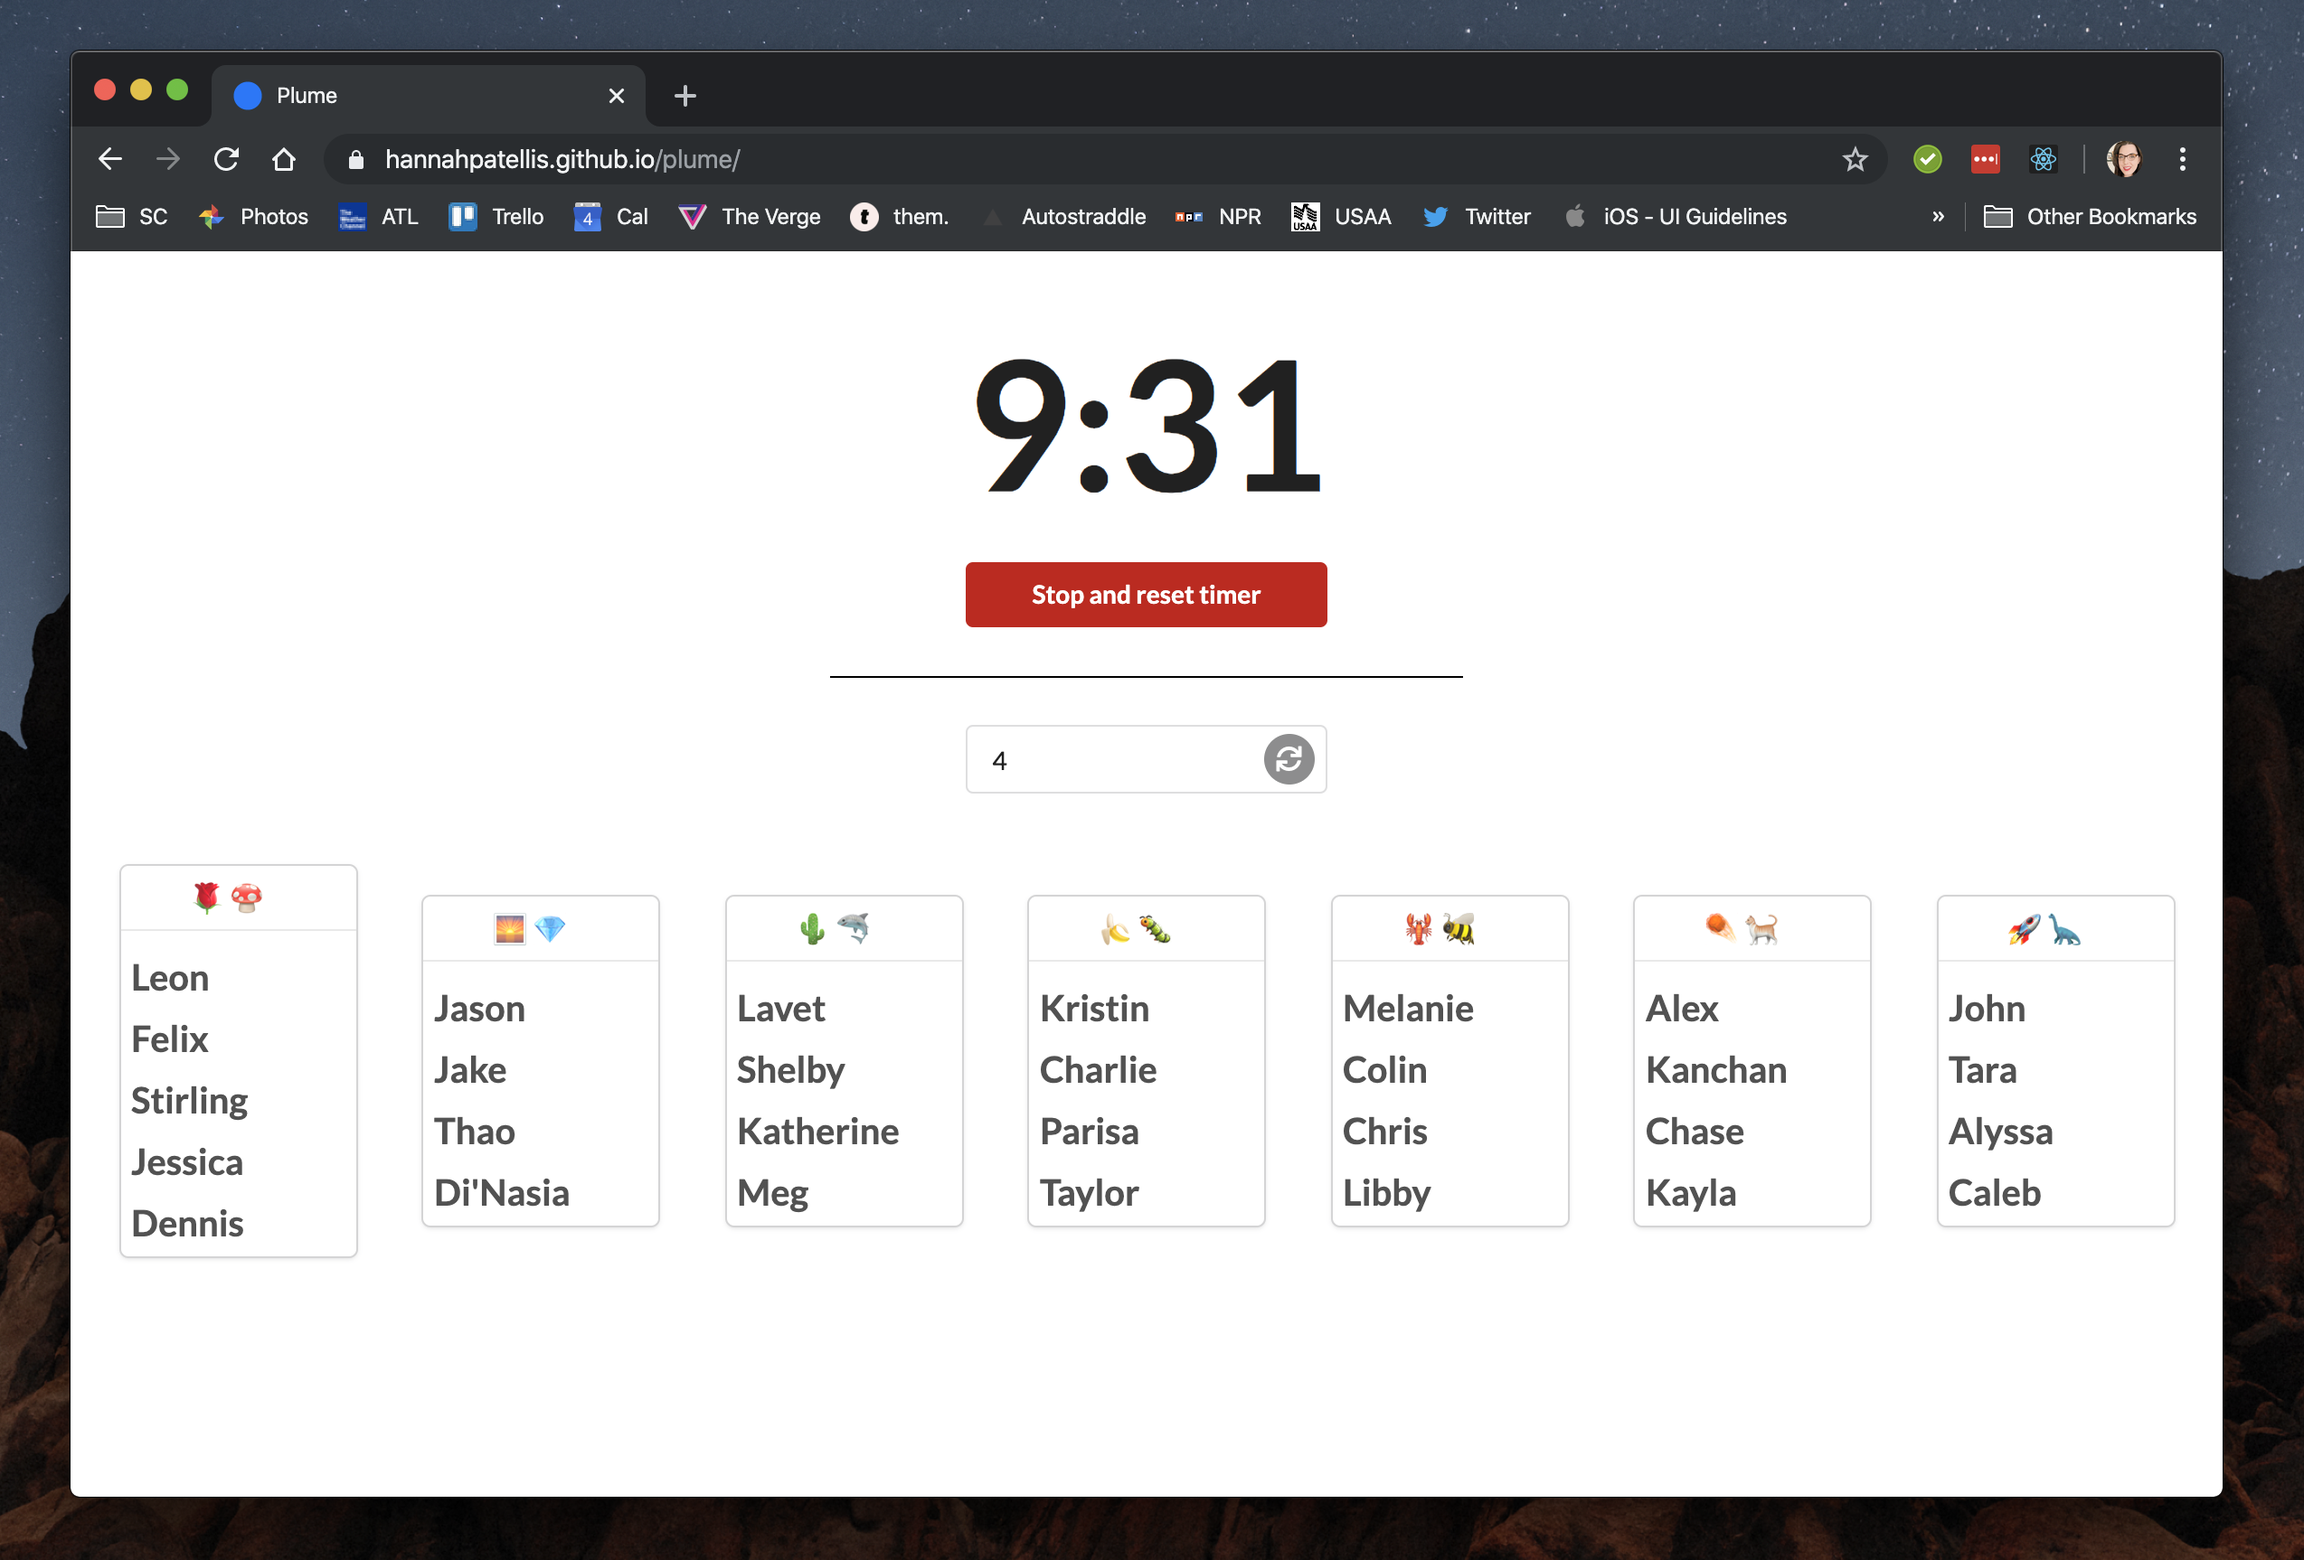
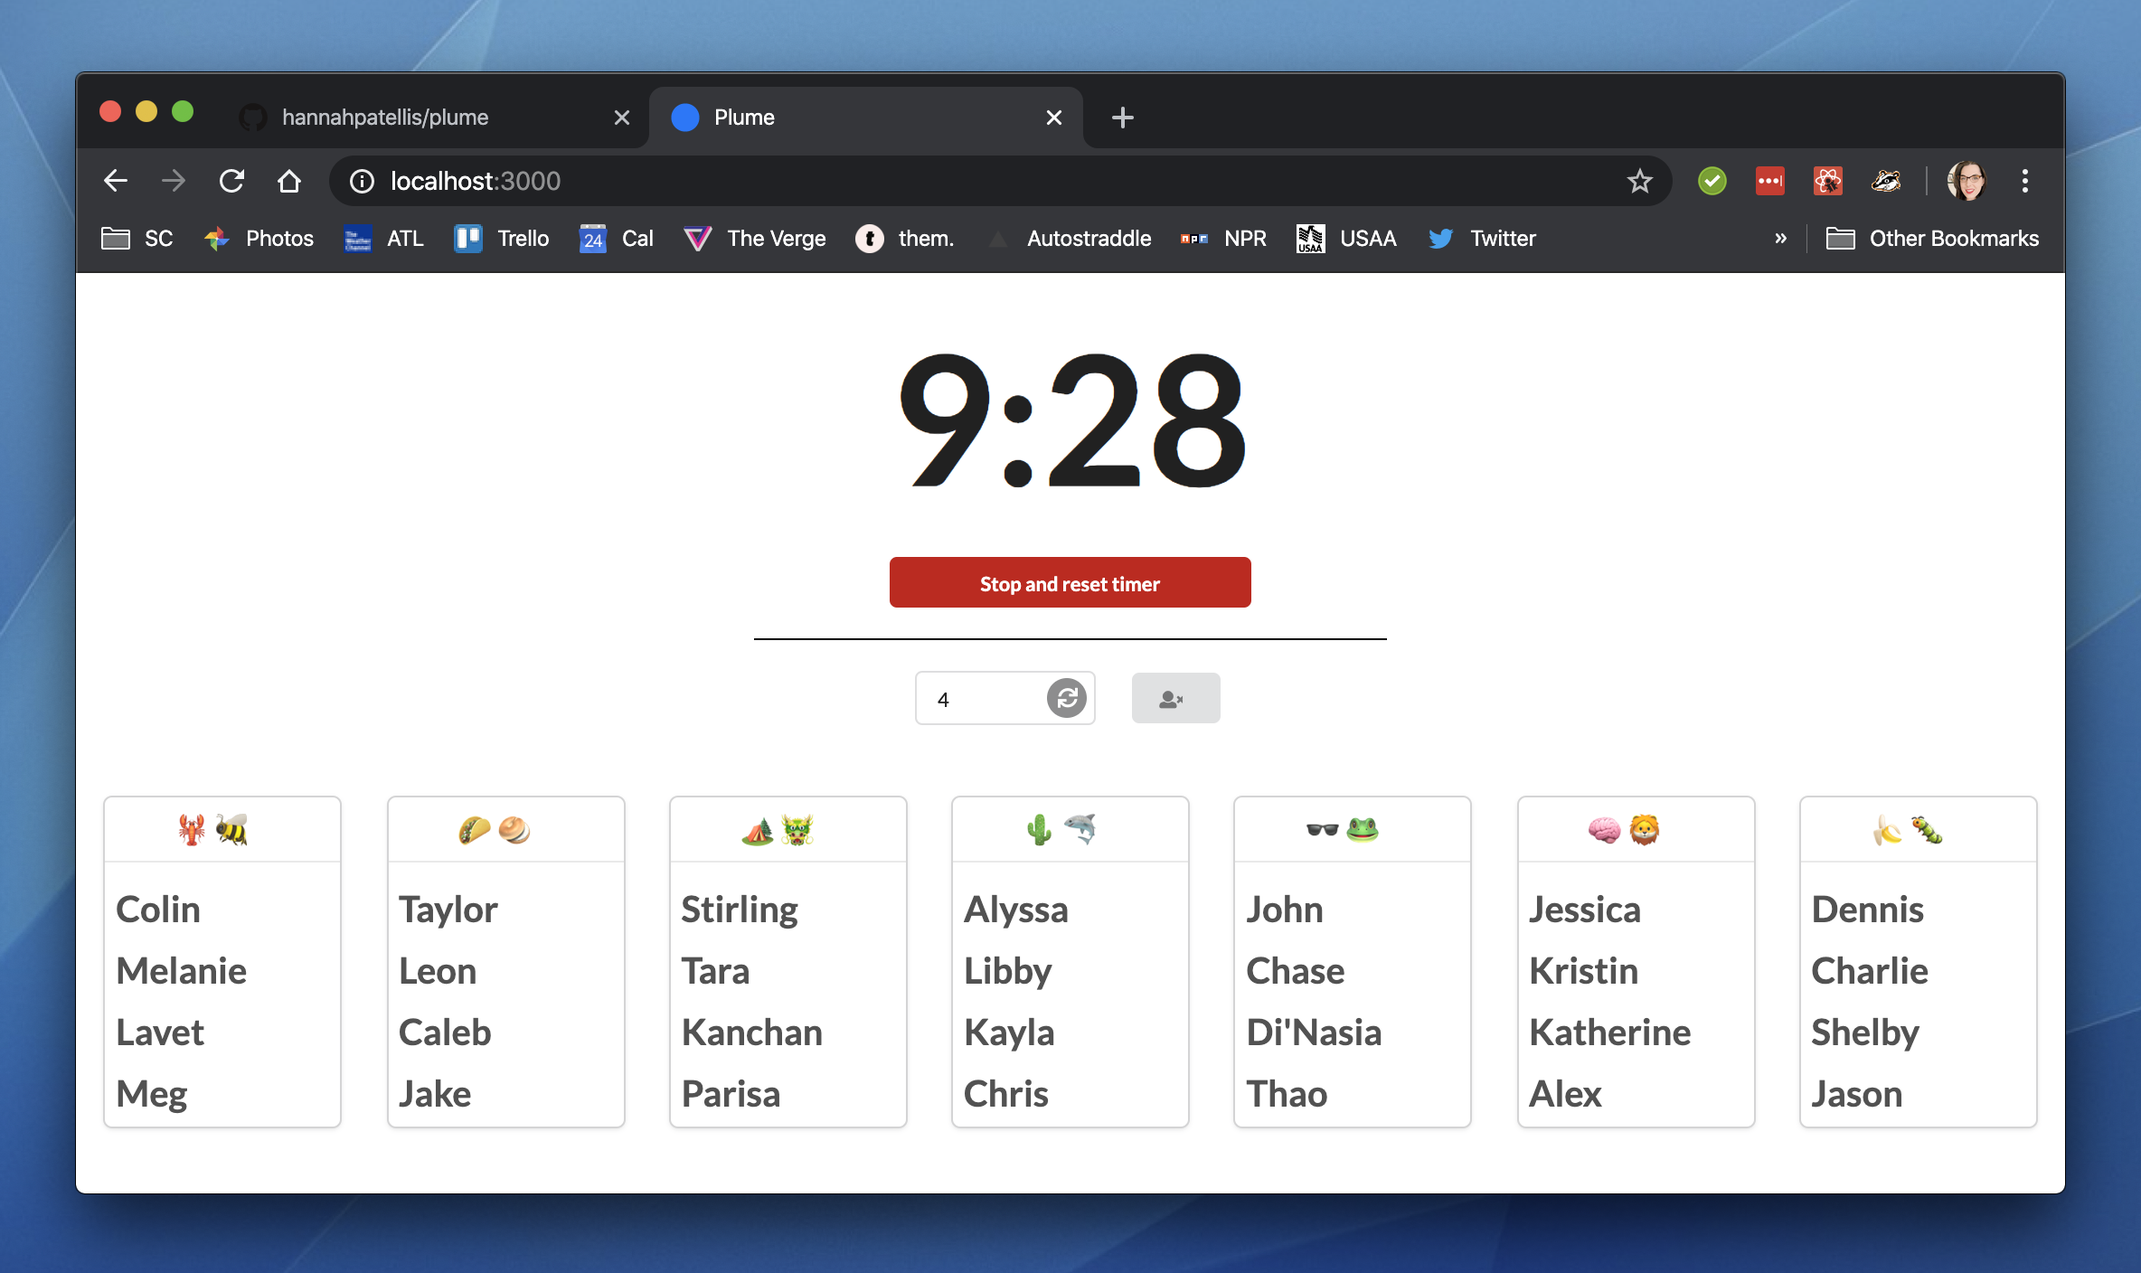
Updates README with details on present student picker modal and updates screenshot

diff --git a/src/App.js b/src/App.js
@@ -219,7 +219,7 @@ class App extends Component {
 
   componentDidMount() {
     let studentsMasterProcess = [];
-    roster.forEach((element, i) => {
+    roster.forEach(element => {
       let processObj = {
         name: element,
         present: true
@@ -265,7 +265,7 @@ class App extends Component {
           ))}
         </div>
       </div>
-    )
+    );
   }
 }
 

diff --git a/README.md b/README.md
@@ -6,7 +6,7 @@ A random group generator and countdown timer
 
 ## Intro
 
-Plume can be used in classrooms to quickly sort students into groups of a specified size. It also includes a countdown timer that allows input in minutes.
+Plume can be used in classrooms to quickly sort students into groups of a specified size. It also includes a countdown timer that allows input in minutes and allows you to exclude absent students from group generation.
 
 It is responsive in design so that it can fit in a small portion of the screen while something like a slideshow is also being displayed.
 
@@ -14,13 +14,15 @@ Plume is a React application and uses [Semantic UI](https://react.semantic-ui.co
 
 ## How to use
 
-Enter the number of students you want per group into the input field and click the gray button. It will generate groups with that number of students. If there are leftover students, it will add them to other groups.
+Enter the number of students you want per group into the input field and click the circular gray button. It will generate groups with that number of students. If there are leftover students, it will add them to other groups.
 
 For example, if you have a class of 29 and you want groups of 2, you'll have one group of 3 and not one group of 1.
 
-To change the timer, click the time and it will turn into an input field. Enter the number of minutes you want to count down from and click the green "Start timer" button.
+To change the timer, click the time and it will turn into an input field. Enter the number of minutes from which you want to count down and click the green "Start timer" button.
 
 Once the timer has started you can click the red "Stop and reset timer" button to stop the countdown and reset back to the last input.
+
+If a student is absent, select the rectangular gray button next to the group size input field. A modal will pop up with a list of every student. Uncheck absent students and select the green "Save" button. Now when you generate groups, that student will not be included. When you refresh the page, all students will be remarked as present. _(Feature added Dec 21)_
 
 ## How to run
 
@@ -30,7 +32,7 @@ Then run `yarn start` to start the React development server.
 
 ## How to setup
 
-For use in your own class you will need to edit [/src/App.js](/src/App.js) to include an array of your students. You also need to have group names for at least half the number of total students.
+For use in your own class you will need to edit [/src/students.json](/src/students.json) to include an array of your students. You also need to have group names for at least half the number of total students in [/src/App.js](/src/App.js).
 
 The application is built to be deployed to GitHub Pages. Make a new repo and copy the application files into the new repo. Change the value of the `"homepage"` property in [/package.json](/package.json) to include your username and the name of your repo. (Don't forget the `/` at the end or static assets may not load.) Then run `yarn deploy` which will run the React build script then the gh-pages deploy script. 
 
@@ -38,7 +40,7 @@ The gh-pages deploy script will add, commit, and push the built version of the a
 
 ## The `archive` folder
 
-There is an `/archive` folder which includes a previous (and non-working) version of the app that used [React95](https://github.com/arturbien/React95) as the CSS framework. At one point, this version also tried to employ the Bootcamp Spot API.
+There is an `/archive` folder which includes a previous (and non-working) version of the app that used [React95](https://github.com/arturbien/React95) as the CSS framework. At one point, this version also tried to employ the Trilogy Bootcamp Spot API.
 
 ### Enjoy! 👩🏻🏫
 
